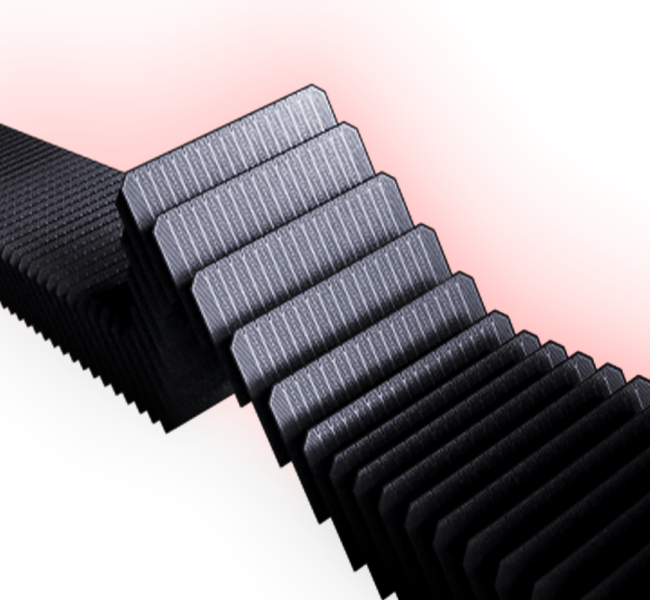
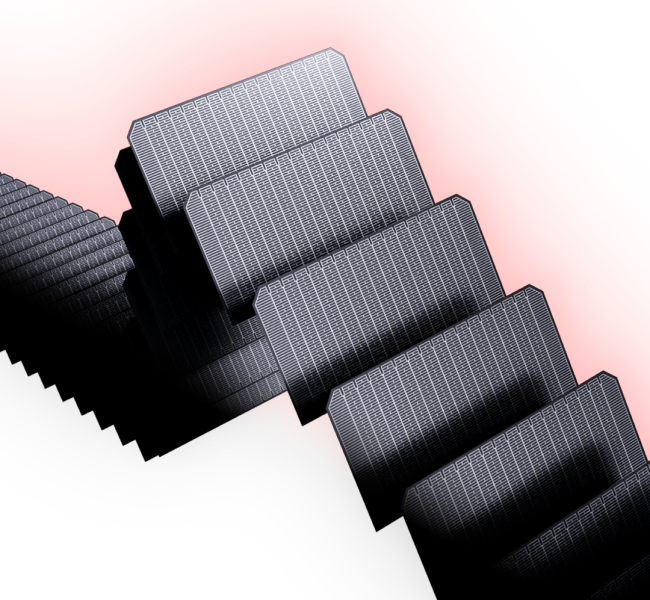
updated bentobox

diff --git a/src/app/[locale]/products/[id]/constants.ts b/src/app/[locale]/products/[id]/constants.ts
@@ -438,7 +438,7 @@ export const PRODUCT_BENTOBOXES: ProductBentofoxes = {
       },
       {
         type: "half",
-        imageUrl: "url('/images/products/bentobox/frame.png')",
+        imageUrl: "url('/images/products/bentobox/sizes.png')",
         shortDescription: `Size Variety: 
         small, medium, large`,
         gridArea: "b",
@@ -455,12 +455,10 @@ export const PRODUCT_BENTOBOXES: ProductBentofoxes = {
       },
       {
         type: "full",
-        imageUrl: "url('/images/products/bentobox/material.png')",
+        imageUrl: "url('/images/products/bentobox/point.png')",
         longDescription: {
           title: `Tailored Material 
               and Power`,
-          description:
-            "Customize your energy solution with tailored materials and power options, ensuring precise alignment with your specific needs and preferences.",
         },
         gridArea: "e",
       },
@@ -535,14 +533,14 @@ export const PRODUCT_BENTOBOXES: ProductBentofoxes = {
       },
       {
         type: "full",
-        imageUrl: "url('/images/products/bentobox/material.png')",
+        imageUrl: "url('/images/products/bentobox/panels.png')",
         longDescription: {
           title: `Broad 
           Customization`,
           description:
             "Find the perfect color combination to complement your content with interchangeable backdrops and frames.",
         },
-        gridArea: "b",
+        gridArea: "f",
       },
       {
         type: "warranty",
@@ -563,45 +561,45 @@ export const PRODUCT_BENTOBOXES: ProductBentofoxes = {
       },
       {
         type: "full",
-        imageUrl: "url('/images/products/bentobox/sand.png')",
+        imageUrl: "url('/images/products/bentobox/performance.png')",
         shortDescription: `Resilient Performance:
         Low degradation, high durability`,
-        gridArea: "f",
+        gridArea: "b",
       },
     ],
   },
   Terra: {
-    areaTemplate: `md:[grid-template-areas:"a_a_b_b""a_a_b_b""c_c_d_d""c_c_e_f"] [grid-template-areas:"a_a""b_b""c_c""d_d""e_f"]`,
+    areaTemplate: `md:[grid-template-areas:"a_a_b_b""a_a_b_b""c_c_d_d""e_f_d_d"] [grid-template-areas:"a_a""b_b""c_c""d_d""e_f"]`,
     structure: [
       {
         type: "full",
-        imageUrl: "url('/images/products/bentobox/sand.png')",
+        imageUrl: "url('/images/products/bentobox/efficiency.png')",
         shortDescription: `Bifacial Efficiency:
         Optimal energy capture`,
         gridArea: "a",
+      },
+      {
+        type: "half",
+        imageUrl: "url('/images/products/bentobox/flexibility.png')",
+        shortDescription: `Application Flexibility:
+        Ideal for various installations`,
+        gridArea: "c",
+      },
+      {
+        type: "full",
+        imageUrl: "url('/images/products/bentobox/reliability.png')",
+        longDescription: {
+          title: `Long-Term Reliability`,
+          description:
+            "Count on consistent performance and lasting durability with minimal degradation, guaranteeing reliable operation for the long haul.",
+        },
+        gridArea: "b",
       },
       {
         type: "full",
         imageUrl: "url('/images/products/bentobox/cells.png')",
         shortDescription: `n-Type TOPCon Tech:
         Cutting-edge efficiency`,
-        gridArea: "b",
-      },
-      {
-        type: "full",
-        imageUrl: "url('/images/products/bentobox/material.png')",
-        longDescription: {
-          title: `Long-Term Reliability`,
-          description:
-            "Count on consistent performance and lasting durability with minimal degradation, guaranteeing reliable operation for the long haul.",
-        },
-        gridArea: "c",
-      },
-      {
-        type: "half",
-        imageUrl: "url('/images/products/bentobox/frame.png')",
-        shortDescription: `Application Flexibility:
-        Ideal for various installations`,
         gridArea: "d",
       },
       {
@@ -629,11 +627,9 @@ export const PRODUCT_BENTOBOXES: ProductBentofoxes = {
       },
       {
         type: "full",
-        imageUrl: "url('/images/products/bentobox/material.png')",
+        imageUrl: "url('/images/products/bentobox/electricity.png')",
         longDescription: {
           title: `Electricity and thermal production`,
-          description:
-            "Experience the best of both worlds with our hybrid energy solution, seamlessly integrating electricity and thermal production for comprehensive energy generation.",
         },
         gridArea: "b",
       },
@@ -680,7 +676,7 @@ export const PRODUCT_BENTOBOXES: ProductBentofoxes = {
       },
       {
         type: "full",
-        imageUrl: "url('/images/products/bentobox/material.png')",
+        imageUrl: "url('/images/products/bentobox/resilent.png')",
         longDescription: {
           title: `Shade Resilience`,
           description:

diff --git a/src/app/[locale]/utils/constants.ts b/src/app/[locale]/utils/constants.ts
@@ -366,9 +366,9 @@ export const TECH_INFO_BEST_AT_THIS = "Best at This";
 export const TECH_INFO_CLOSE = "Close";
 export const TECH_INFO_BENS = [
   {
-    title: `Unmatched Precision in Solar Engineering`,
+    title: `Leading Solar Technology`,
     description:
-      "AESOLAR stands as a paragon of German precision, leading the charge in the solar module manufacturing sector. Our Tier 1 status is a testament to our relentless pursuit of innovation and excellence.",
+      "AESOLAR, a top-tier German solar module maker, stands for precision and dependability in engineering. We’re at the forefront, using advanced technology to shape solar energy's future. Our commitment to innovation is paving the way for exciting developments in solar power.",
     image: "automation.svg",
     fullDescription: `On February 19, 2024, Bloomberg New Energy Finance (BNEF) released the 1Q 2024 Global PV Market Outlook. AESOLAR has once again secured its position in the tier 1 list of PV module manufacturers, marking the 13th consecutive time since Q1 2021. As a leading solar brand, this recognition underscores AESOLAR's consistent quality, brand credibility, and strong bankability.
     BNEF's methodology for tier 1 PV module manufacturers is stringent, requiring manufacturers to have received non-recourse finance from 6 different commercial banks over the past 2 years. This selection process demonstrates the bankability of the chosen brands and provides a reliable reference for the market.
@@ -377,27 +377,27 @@ export const TECH_INFO_BENS = [
     Furthermore, AESOLAR received a '*' in the list, indicating that their investigation report can be obtained from PV Evolution Labs (PVEL). The Aurora series PV module from AESOLAR has passed testing conducted by PVEL and was among the 'Best Performers' in 2023. This is a result of AESOLAR's continuous focus on research and development, technological innovation, and enhancement of production processes and quality management.`,
   },
   {
-    title: "Crafting a Sustainable Tomorrow",
+    title: "Building a Greener Future",
     description:
-      "At AESOLAR, we merge advanced technology with unwavering quality and sustainability, forging ahead in our quest for excellence. We’re not just creating solar modules; we’re sculpting a greener future.",
+      "AESOLAR isn’t just making solar modules; we’re building a more sustainable future. By combining the latest technology with high quality and our dedication to the environment, we’re not just creating products – we’re inspiring a vision of a renewable energy-driven world.",
     image: "manufacturer.png",
   },
   {
-    title: "Quality Without Compromise",
+    title: "Quality Manufacturing",
     description:
-      "Adherence to AAA+ standards and meticulous quality checks are the cornerstones of our process, reflecting our dedication to outstanding quality and customer satisfaction.",
+      "Our high-tech factories use smart automation for precise and efficient assembly, minimizing errors. Quality is key at AESOLAR. We make sure each solar module is top-notch in efficiency, durability, and performance. Our thorough checks at every step show our dedication to quality and making our customers happy.",
     image: "technologies.svg",
   },
   {
-    title: "Excellence in Manufacturing",
+    title: "Setting New Efficiency Standards",
     description:
-      "Our cutting-edge facilities boast smart automation, ensuring every solar module is a product of precision and cost-efficiency. Rigorous quality controls are integral to our manufacturing ethos, guaranteeing superior efficiency, resilience, and functionality in every product.",
+      "We at AESOLAR are all about raising the bar in the solar industry. We focus on making our manufacturing more energy-efficient, which cuts costs and reduces our environmental footprint. This helps our customers in the long run, too. And we back up our commitment to quality with a strong product warranty.",
     image: "efficiency.svg",
   },
   {
-    title: "Setting Industry Benchmarks",
+    title: "Committed to Sustainability",
     description:
-      "AESOLAR is driven to elevate industry standards by enhancing energy efficiency. This not only reduces manufacturing expenses and ecological footprints but also provides our customers with the best total cost of ownership.",
+      "Sustainability is central to what we do at AESOLAR. We power our facilities with our solar panels and other green energy sources. This commitment reflects our belief in the clean energy movement. We’re mindful of our products' life cycles, using recyclable materials and cutting down on energy use. We follow strict German standards for sustainable and responsible production.",
     image: "materials.svg",
   },
 ];

diff --git a/src/app/[locale]/products/[id]/components/Customization/Bentoboxes/FullBentobox.tsx b/src/app/[locale]/products/[id]/components/Customization/Bentoboxes/FullBentobox.tsx
@@ -8,7 +8,7 @@ export default function FullBentobox({
   shortDescription?: string;
   longDescription?: {
     title: string;
-    description: string;
+    description?: string;
   };
   gridArea?: string;
 }) {
@@ -41,11 +41,11 @@ export default function FullBentobox({
       }}
     >
       {longDescription && (
-        <div className="flex flex-col gap-5">
+        <div className="flex flex-col gap-5 self-start">
           <div>
             {longDescription.title.split(/\r?\n|\r|\n/g).map((string) => (
               <div
-                className="[font-size:_clamp(24px,2.5vw,48px)] font-semibold md:-tracking-[1.44px] leading-[110%]"
+                className="[font-size:_clamp(24px,2.5vw,48px)] font-semibold md:-tracking-[1.44px] leading-[110%] capitalize"
                 key={string}
               >
                 {string}
@@ -53,21 +53,23 @@ export default function FullBentobox({
             ))}
           </div>
           <div>
-            {longDescription.description.split(/\r?\n|\r|\n/g).map((string) => (
-              <div
-                className="[font-size:_clamp(14px,1.5vw,20px)] font-normal font-walsheim leading-[150%] text-dark-gray-900"
-                key={string}
-              >
-                {string}
-              </div>
-            ))}
+            {longDescription.description
+              ?.split(/\r?\n|\r|\n/g)
+              .map((string) => (
+                <div
+                  className="[font-size:_clamp(14px,1.5vw,20px)] font-normal font-walsheim leading-[150%] text-dark-gray-900"
+                  key={string}
+                >
+                  {string}
+                </div>
+              ))}
           </div>
         </div>
       )}
       {shortDescription &&
         shortDescription.split(/\r?\n|\r|\n/g).map((string) => (
           <div
-            className="[font-size:_clamp(16px,1.5vw,24px)] font-semibold md:-tracking-[0.96px]"
+            className="[font-size:_clamp(16px,1.5vw,24px)] font-semibold md:-tracking-[0.96px] capitalize"
             key={string}
           >
             {string}

diff --git a/src/app/[locale]/products/[id]/components/Customization/Bentoboxes/QuarterBentobox.tsx b/src/app/[locale]/products/[id]/components/Customization/Bentoboxes/QuarterBentobox.tsx
@@ -42,13 +42,14 @@ export default function QuarterBentobox({
           priority
           width={170}
           height={170}
+          className="2xl:h-[170px] 2xl:w-[170px] lg:h-[100px] lg:w-[100px] w-[80px] h-[80px]"
         />
       )}
 
       {shortDescription &&
         shortDescription.split(/\r?\n|\r|\n/g).map((string) => (
           <div
-            className="[font-size:_clamp(16px,1.5vw,24px)] font-semibold md:-tracking-[0.96px] leading-[100%]"
+            className="[font-size:_clamp(16px,1.5vw,24px)] font-semibold md:-tracking-[0.96px] leading-[100%] capitalize"
             key={string}
           >
             {string}

diff --git a/src/app/[locale]/components/TechInfo/BensPopUp.tsx b/src/app/[locale]/components/TechInfo/BensPopUp.tsx
@@ -55,7 +55,7 @@ export default function BensPopUp({
             </Button>
           </div>
 
-          <div className="w-full md:px-8 md:mb-8 px-4 mb-4 overflow-y-scroll bensPopUp relative overflow-x-hidden">
+          <div className="w-full md:px-8 md:mb-8 px-4 mb-4 overflow-y-auto bensPopUp relative overflow-x-hidden">
             <Image
               src={`/images/techInfo/fadeBackground.svg`}
               alt="fadeBackground"

diff --git a/src/app/[locale]/products/[id]/components/Customization/Bentoboxes/HalfBentobox.tsx b/src/app/[locale]/products/[id]/components/Customization/Bentoboxes/HalfBentobox.tsx
@@ -41,7 +41,7 @@ export default function HalfBentobox({
       {shortDescription &&
         shortDescription.split(/\r?\n|\r|\n/g).map((string) => (
           <div
-            className="[font-size:_clamp(16px,1.5vw,24px)] font-semibold md:-tracking-[0.96px]"
+            className="[font-size:_clamp(16px,1.5vw,24px)] font-semibold md:-tracking-[0.96px] capitalize"
             key={string}
           >
             {string}

diff --git a/src/app/[locale]/documents/components/SearchBar/index.tsx b/src/app/[locale]/documents/components/SearchBar/index.tsx
@@ -28,6 +28,10 @@ export default function SearchBar({ isDocuments }: { isDocuments?: boolean }) {
     setValue(FORMS_FIELDS.searchInputValue, "");
   }, [documentsType, setValue]);
 
+  useEffect(() => {
+    !inputValue && setSearchInputValue("");
+  }, [inputValue, setSearchInputValue]);
+
   return (
     <>
       <form

diff --git a/src/app/[locale]/products/[id]/components/Customization/types.ts b/src/app/[locale]/products/[id]/components/Customization/types.ts
@@ -12,7 +12,7 @@ export type ProductBentofoxes = {
       imageUrl?: string;
       longDescription?: {
         title: string;
-        description: string;
+        description?: string;
       };
       gridArea: string;
       shortDescription?: string;

diff --git a/src/app/[locale]/components/TechInfo/Ben.tsx b/src/app/[locale]/components/TechInfo/Ben.tsx
@@ -43,7 +43,7 @@ export default function Ben({
         <BensPopUp
           onClose={hidePopUp}
           title={title}
-          fullDescription={fullDescription}
+          fullDescription={description}
         />
       )}
       <div
